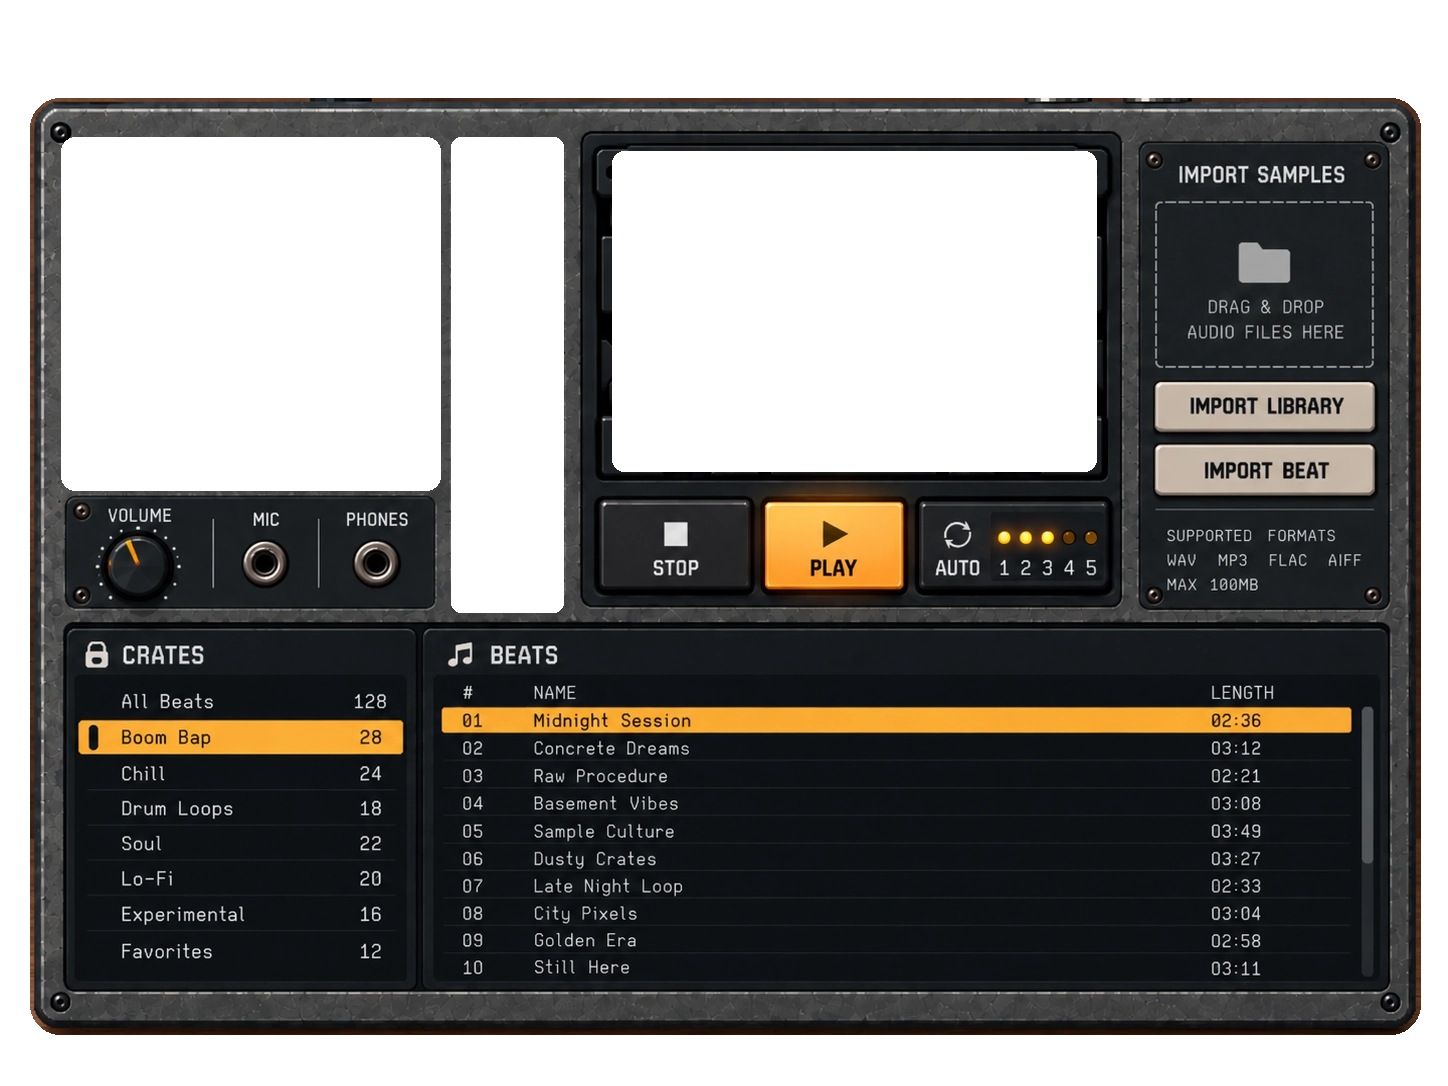
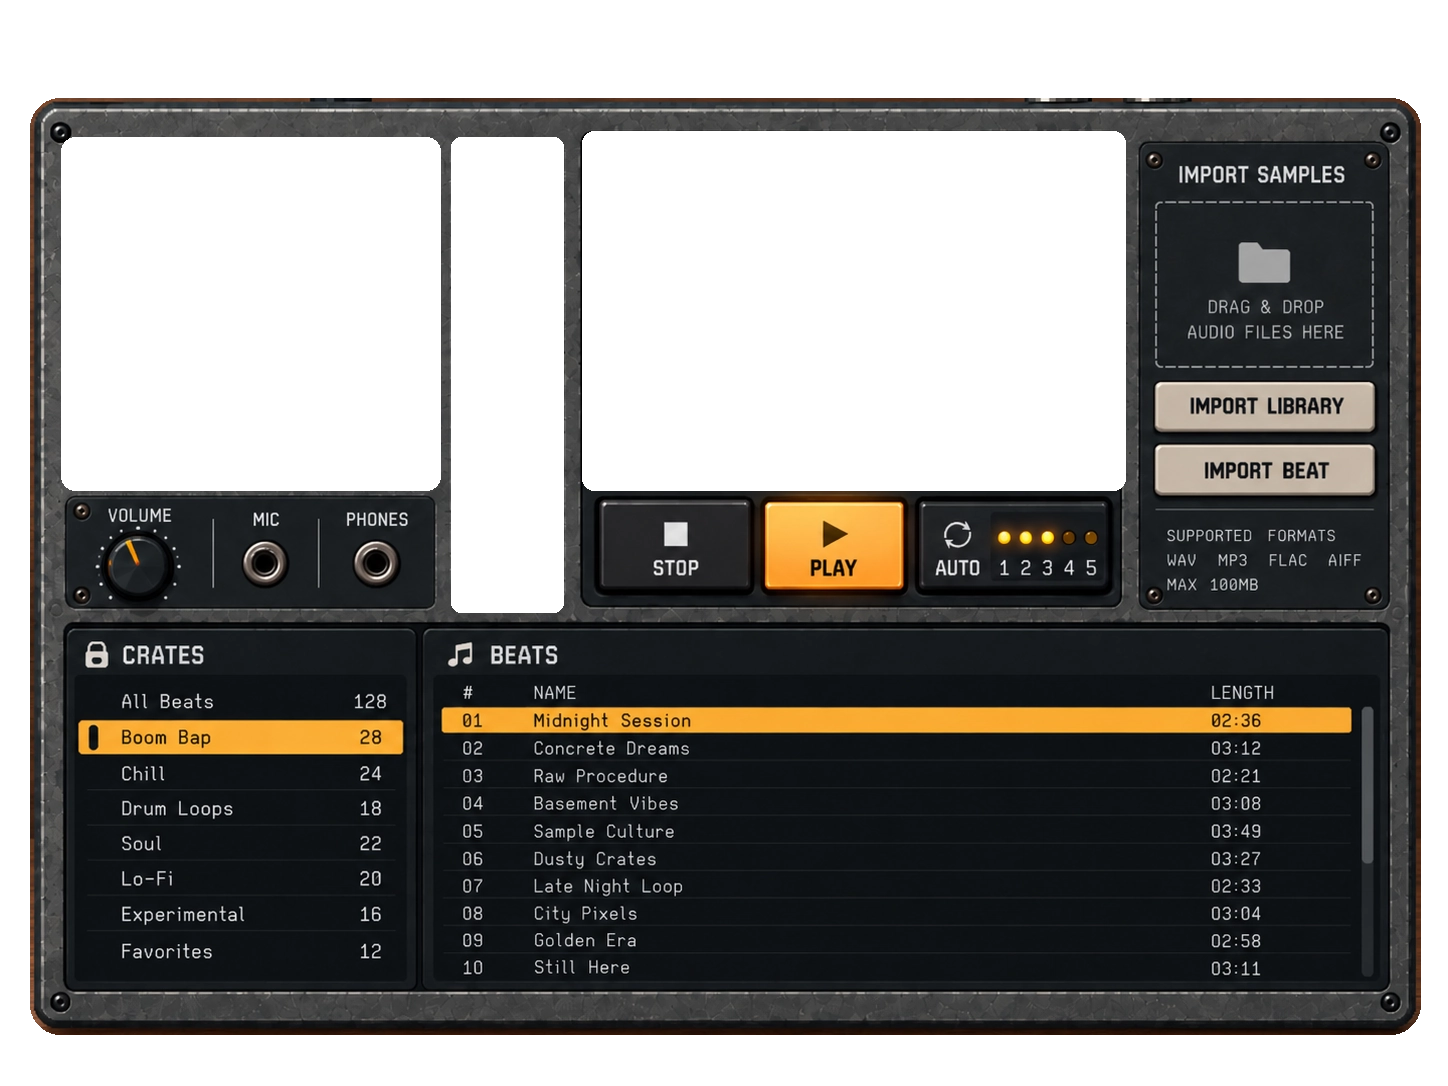
refactor(ui): rebuild clean cassette habitat

Changed region(s): [[0.404, 0.1215, 0.7769, 0.4558]]

diff --git a/css/looper.css b/css/looper.css
@@ -108,7 +108,7 @@
 
 /* CASSETTE — reference-derived body, live reels behind it, subtle foreground glass. */
 #looper .cassetteMechanism{
-  z-index:18;top:19.80%;left:45.48%;width:26.93%;aspect-ratio:442/252;overflow:hidden;border:0;
+  z-index:18;top:19.43%;left:44.75%;width:28.32%;aspect-ratio:442/252;overflow:hidden;border:0;
   background:transparent;box-shadow:none;isolation:isolate;container-type:inline-size;pointer-events:none;
 }
 #looper .cassetteMechanism>*{position:absolute;pointer-events:none;user-select:none}
